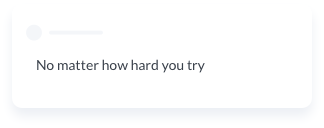
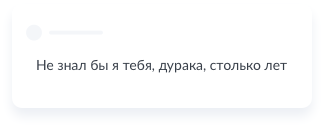
Contacts page improvements

Changed region(s): [[0.0926, 0.4688, 0.8951, 0.5938]]

diff --git a/src/app/pages/contact.controller.js b/src/app/pages/contact.controller.js
@@ -1,17 +1,9 @@
-const bestThings = [
-    'Pizza Deluxe',
-    'me',
-    'you',
-    'three cold beers',
-    'Worms 2 Armageddon',
-    'that world'
-];
 
 const placeholders = [
-    'You guys are doing a great job, but...',
-    'I like sleeping after lunch, but...',
-    'I like crying when I laugh, but this just too funny...',
-    'No one learned from your mistake, We let our profit s go to waste'
+    'Пацаны ваще ребята, но ...',
+    'Я так смеялся, но не понял ничего...',
+    'А можно бы мне на сайт картинку...',
+    'А можно я с другом ...'
 ];
 
 function random(items) {
@@ -35,7 +27,6 @@ export class PageContactController {
         this.toastr = toastr;
         this.apiEndpoint = apiEndpoint;
 
-        this.bestThing = random(bestThings);
         this.placeholder = random(placeholders);
     }
 

diff --git a/src/app/pages/pages.module.js b/src/app/pages/pages.module.js
@@ -40,7 +40,7 @@ function pagesRouterConfig($stateProvider) {
                 }
             },
             data: {
-                pageTitle: 'Контакт loliful.co'
+                pageTitle: 'Контакты loliful.co'
             }
         });
 }
